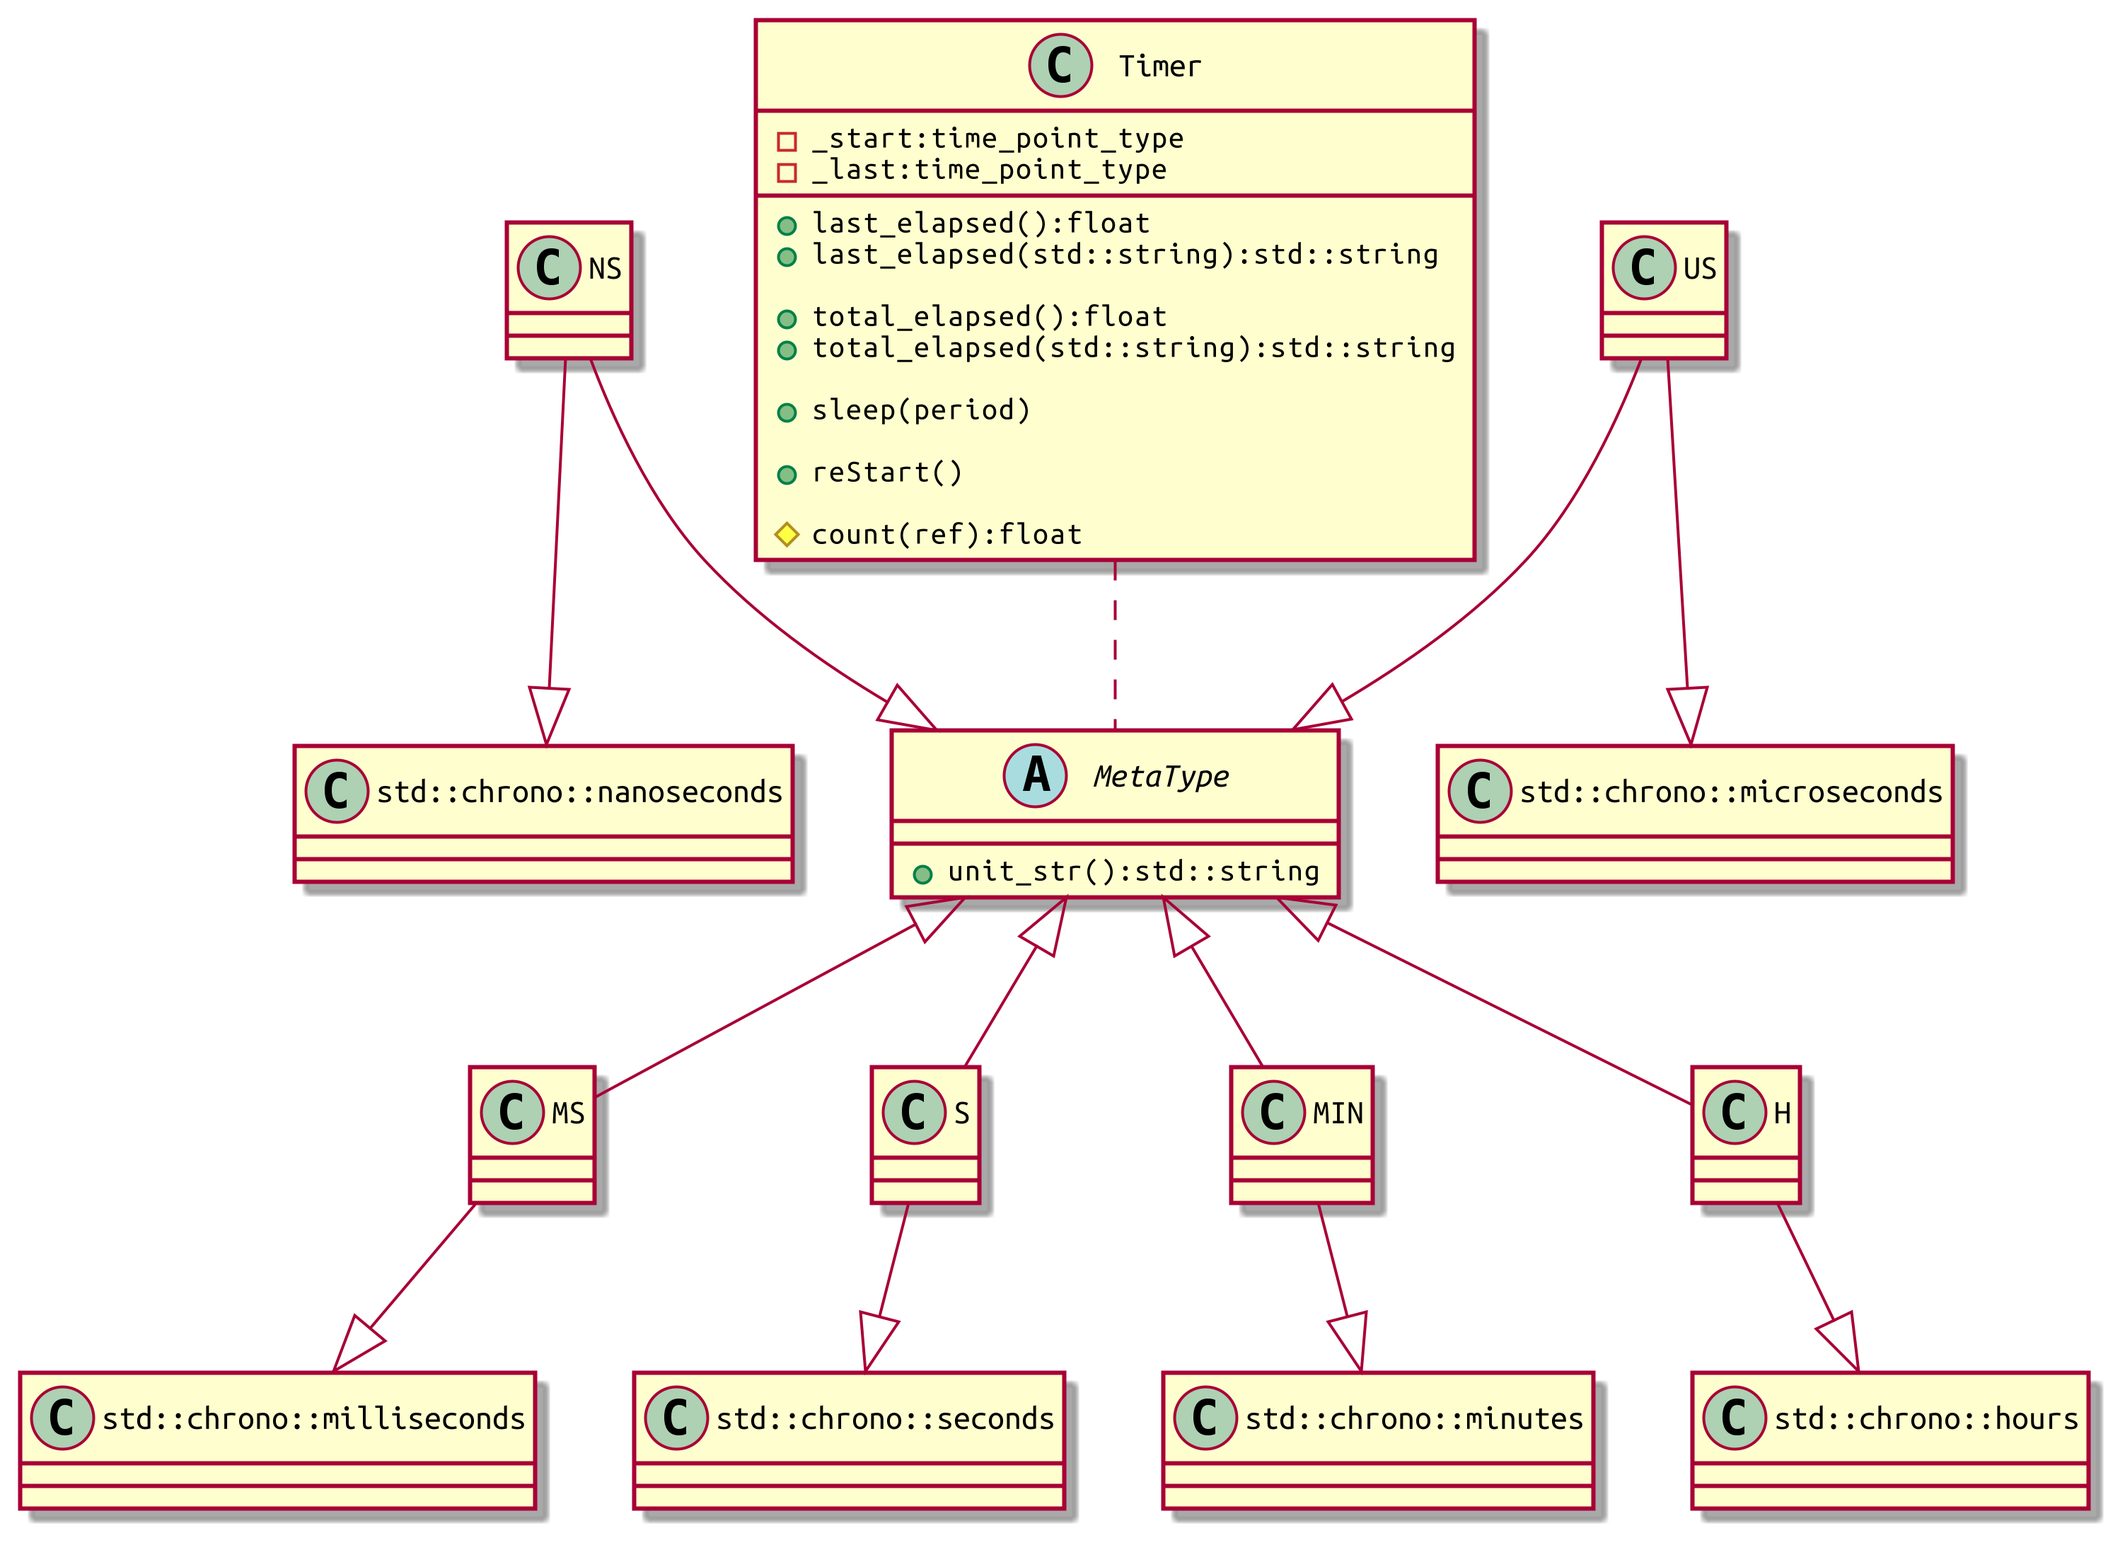
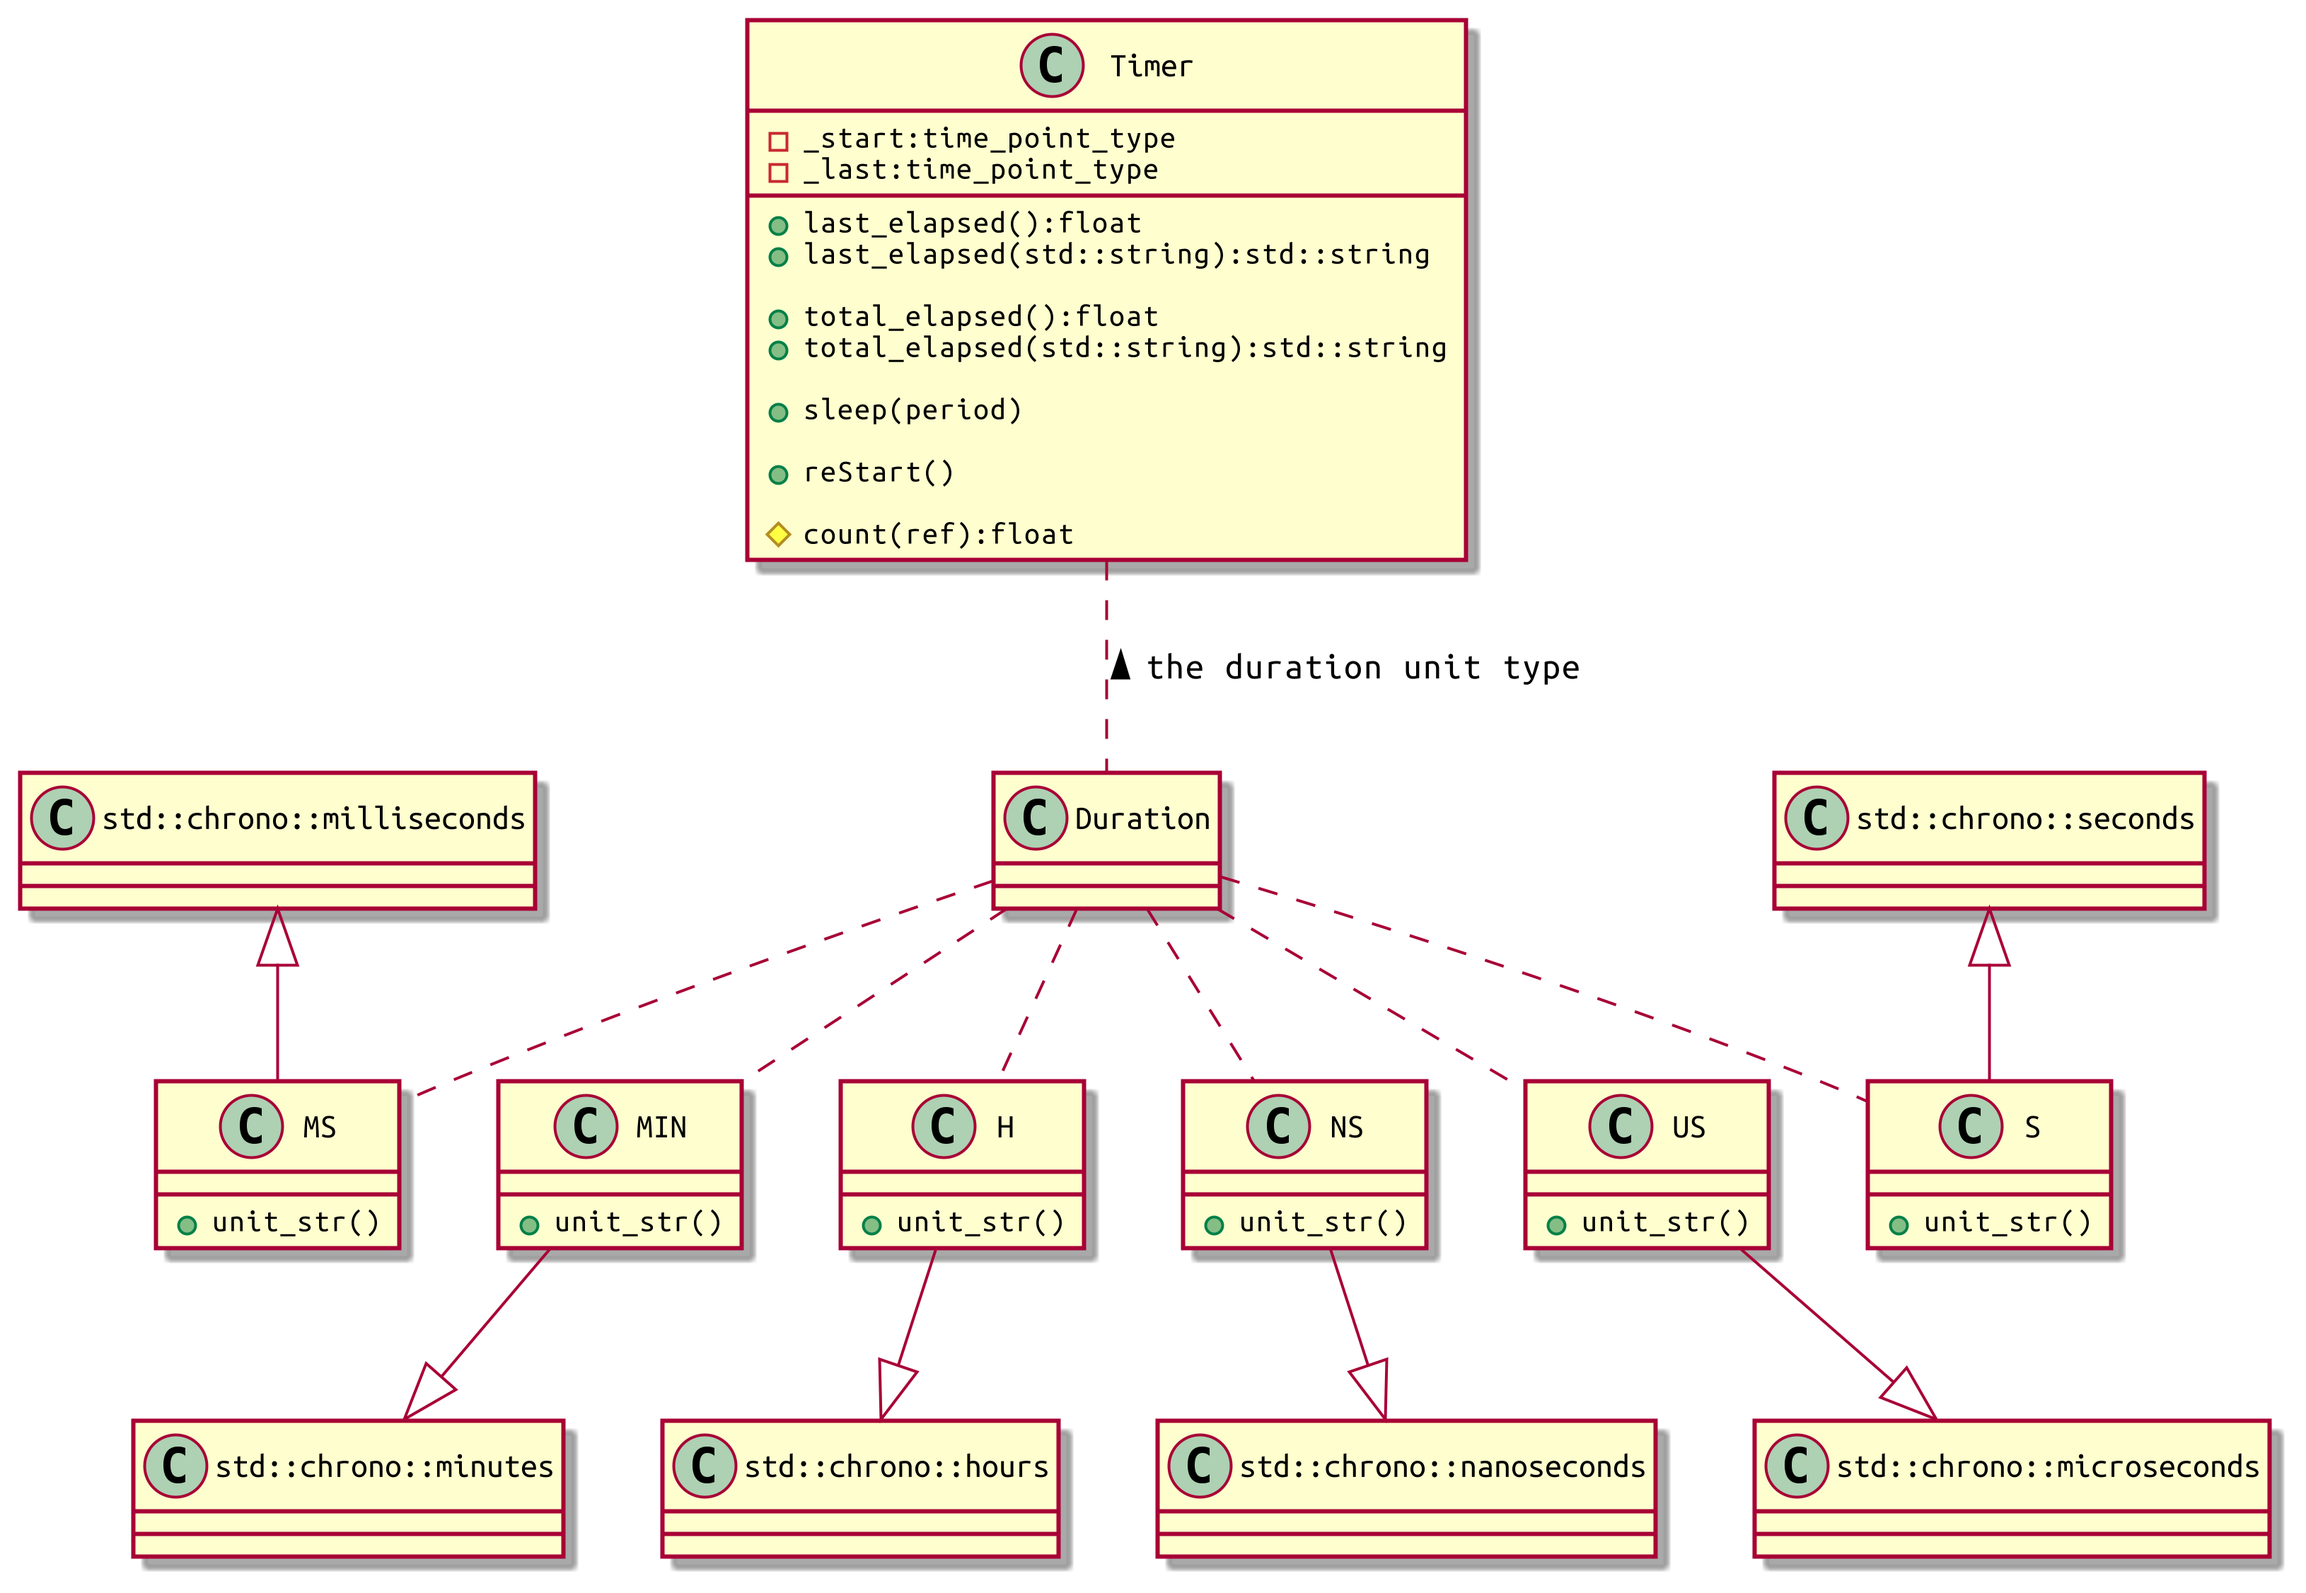
update

diff --git a/include/timer.h b/include/timer.h
@@ -1,7 +1,9 @@
 #pragma once
 
 #include <chrono>
+#include <iomanip>
 #include <iostream>
+#include <sstream>
 #include <string>
 #include <thread>
 #include <type_traits>
@@ -9,55 +11,51 @@
 namespace ns_timer {
 
   namespace DurationType {
-    struct MetaType {
-      virtual std::string unit_str() = 0;
-    };
-
-    struct NS : public MetaType, public std::chrono::nanoseconds {
+    struct NS : public std::chrono::nanoseconds {
       using chrono_type = std::chrono::nanoseconds;
       using chrono_type::chrono_type;
-      virtual std::string unit_str() override {
-        return "ns";
+      static std::string unit_str() {
+        return "NS";
       }
     };
 
-    struct US : public MetaType, public std::chrono::microseconds {
+    struct US : public std::chrono::microseconds {
       using chrono_type = std::chrono::microseconds;
       using chrono_type::chrono_type;
-      virtual std::string unit_str() override {
-        return "us";
+      static std::string unit_str() {
+        return "US";
       }
     };
 
-    struct MS : public MetaType, public std::chrono::milliseconds {
+    struct MS : public std::chrono::milliseconds {
       using chrono_type = std::chrono::milliseconds;
       using chrono_type::chrono_type;
-      virtual std::string unit_str() override {
-        return "ms";
+      static std::string unit_str() {
+        return "MS";
       }
     };
 
-    struct S : public MetaType, public std::chrono::seconds {
+    struct S : public std::chrono::seconds {
       using chrono_type = std::chrono::seconds;
       using chrono_type::chrono_type;
-      virtual std::string unit_str() override {
-        return "s";
+      static std::string unit_str() {
+        return "S";
       }
     };
 
-    struct MIN : public MetaType, public std::chrono::minutes {
+    struct MIN : public std::chrono::minutes {
       using chrono_type = std::chrono::minutes;
       using chrono_type::chrono_type;
-      virtual std::string unit_str() override {
-        return "min";
+      static std::string unit_str() {
+        return "MIN";
       }
     };
 
-    struct H : public MetaType, public std::chrono::hours {
+    struct H : public std::chrono::hours {
       using chrono_type = std::chrono::hours;
       using chrono_type::chrono_type;
-      virtual std::string unit_str() override {
-        return "h";
+      static std::string unit_str() {
+        return "H";
       }
     };
 
@@ -122,15 +120,18 @@ namespace ns_timer {
      *
      * @tparam DurationType the type of std::duration, eg: std::chrono::milliseconds, std::chrono::seconds
      * @param desc the describe of this duration
+     * @param prec the precision for float value
      * @return std::string the duration string
      */
     template <typename DurationType = default_dur_type>
-    std::string last_elapsed(const std::string &desc) {
-      std::string str;
-      str += '{';
-      str += desc + ": " + std::to_string(this->last_elapsed<DurationType>()) + DurationType().unit_str();
-      str += '}';
-      return str;
+    std::string last_elapsed(const std::string &desc, std::size_t prec = 5) {
+      std::stringstream stream;
+      stream << std::fixed << std::setprecision(prec);
+      stream << '{';
+      stream << desc << ": " << this->last_elapsed<DurationType>();
+      stream << '(' << DurationType::unit_str() << ')';
+      stream << '}';
+      return stream.str();
     }
 
     /**
@@ -138,15 +139,18 @@ namespace ns_timer {
      *
      * @tparam DurationType the type of std::duration, eg: std::chrono::milliseconds, std::chrono::seconds
      * @param desc the describe of this duration
+     * @param prec the precision for float value
      * @return std::string the duration string
      */
     template <typename DurationType = default_dur_type>
-    std::string total_elapsed(const std::string &desc) {
-      std::string str;
-      str += '{';
-      str += desc + ": " + std::to_string(this->total_elapsed<DurationType>()) + DurationType().unit_str();
-      str += '}';
-      return str;
+    std::string total_elapsed(const std::string &desc, std::size_t prec = 5) {
+      std::stringstream stream;
+      stream << std::fixed << std::setprecision(prec);
+      stream << '{';
+      stream << desc << ": " << this->total_elapsed<DurationType>();
+      stream << '(' << DurationType::unit_str() << ')';
+      stream << '}';
+      return stream.str();
     }
 
     /**

diff --git a/readme.md b/readme.md
@@ -130,7 +130,7 @@ ___total_elapsed()___
  * @return float the duration count
  */
 ```
-___last_elapsed(const std::string &desc)___ 
+___last_elapsed(const std::string &desc, std::size_t *prec* = 5)___ 
 
 ```cpp
 /**
@@ -138,10 +138,11 @@ ___last_elapsed(const std::string &desc)___
  * 
  * @tparam DurationType the type of std::duration, eg: std::chrono::milliseconds, std::chrono::seconds
  * @param desc the describe of this duration
+ * @param prec the precision for float value
  * @return std::string the duration string
  */
 ```
-___total_elapsed(const std::string &desc)___ 
+___total_elapsed(const std::string &desc, std::size_t *prec* = 5)___ 
 
 ```cpp
 /**
@@ -149,6 +150,7 @@ ___total_elapsed(const std::string &desc)___
  * 
  * @tparam DurationType the type of std::duration, eg: std::chrono::milliseconds, std::chrono::seconds
  * @param desc the describe of this duration
+ * @param prec the precision for float value
  * @return std::string the duration string
  */
 ```
